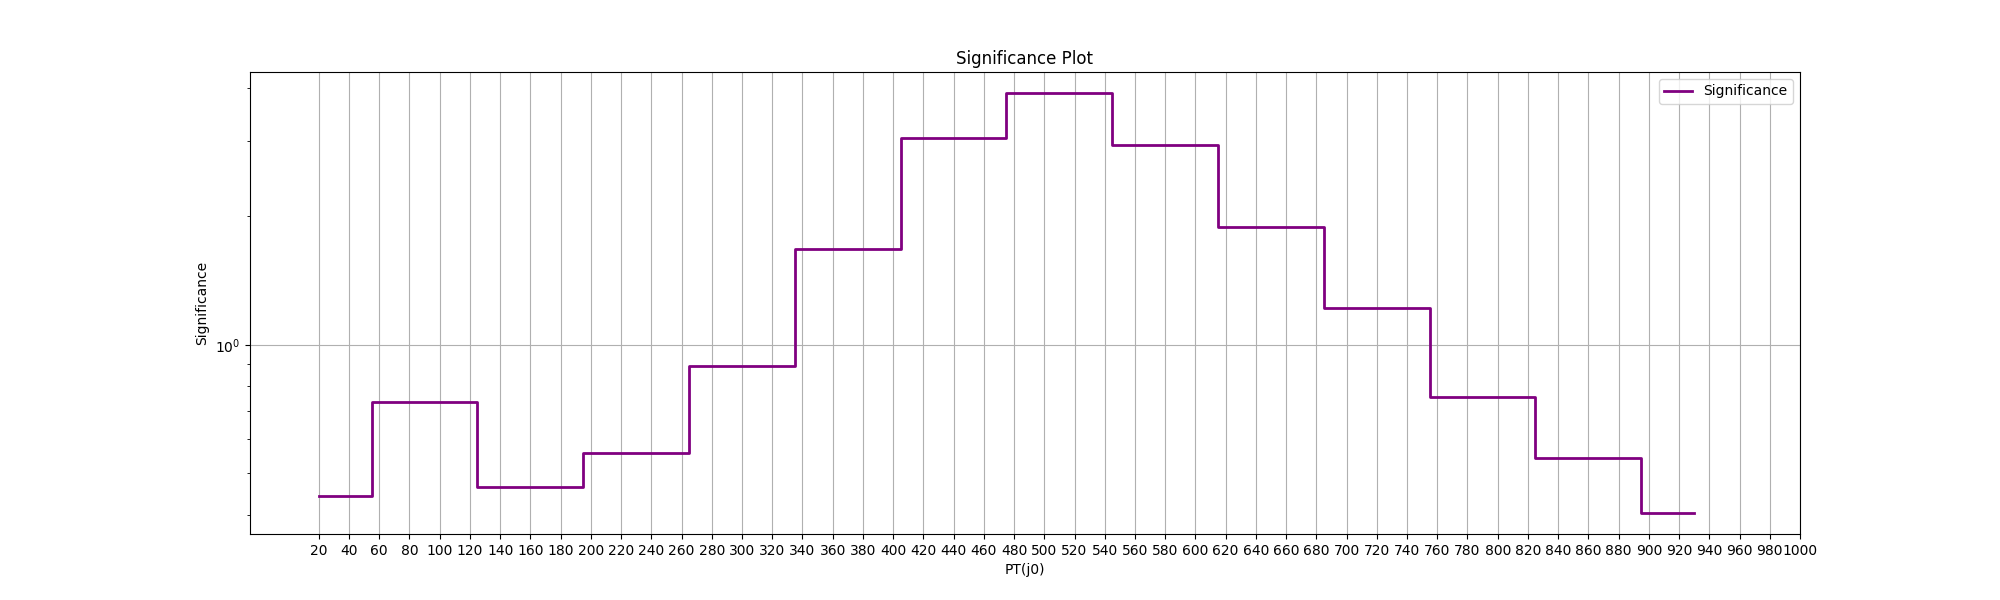
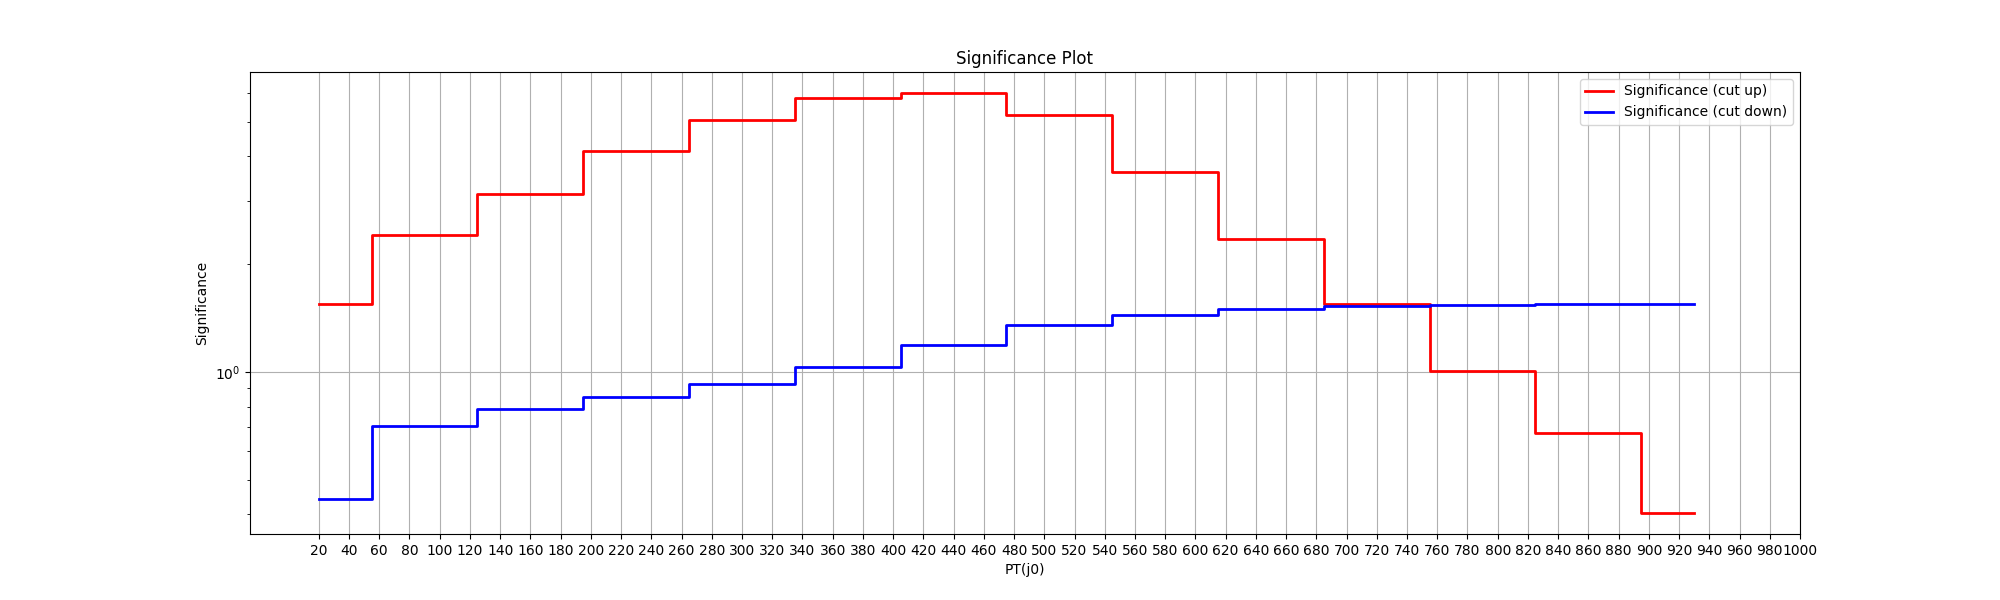
significance plotting both >= and <= at cut point

diff --git a/Analysis/plot_functions.py b/Analysis/plot_functions.py
@@ -753,43 +753,39 @@ def PlotInvariantMass(masklist,signal_weight_list,background_weight_list,savefil
 def significance_plot(lims,signal_hist,background_hist,kind):
 
     if kind=="eta*eta":
-        significance = GetSignificances(signal_hist,background_hist)
+        significance_up, significance_down = GetCulmulativeSignificances(signal_hist, background_hist)
 
         # Get bin edges from the histogram
         bin_edges = signal_hist.axes[0].edges
 
         # Plot significance
         plt.figure(figsize=(10, 6))
-        plt.step(bin_edges[:-1], significance, where='mid', label='Significance', color='purple', linewidth=2)
+        plt.step(bin_edges[:-1], significance_up, where='mid', label='Significance (cut up)', color='red', linewidth=2)
+        plt.step(bin_edges[:-1], significance_down, where='mid', label='Significance (cut down)', color='blue', linewidth=2)
 
         # Add labels and title
         plt.xlabel('Eta(j0) * Eta(j1)')
-        plt.xlim(lims[0], lims[1])  #from visual inspection
+        plt.xlim(lims[0], lims[1])  # from visual inspection
         plt.ylabel('Significance')
         plt.yscale('log')
         plt.title('Significance Plot')
         plt.grid(True)
         plt.legend()
 
-        # Show the plot
         plt.savefig("Significance_plot_eta*eta.png")
-    
+
     elif kind=="Delta(eta)":
+        significance_up, significance_down = GetCulmulativeSignificances(signal_hist, background_hist)
 
-        significance = files_functions.GetSignificances(signal_hist,background_hist)
-
-        # Get bin edges from the histogram
         bin_edges = signal_hist.axes[0].edges
 
-        # Plot significance
         plt.figure(figsize=(30, 6))
-        plt.step(bin_edges[:-1], significance, where='mid', label='Significance', color='purple', linewidth=2)
+        plt.step(bin_edges[:-1], significance_up, where='mid', label='Significance (cut up)', color='red', linewidth=2)
+        plt.step(bin_edges[:-1], significance_down, where='mid', label='Significance (cut down)', color='blue', linewidth=2)
 
-        # Add labels and title
         plt.xlabel('Delta(Eta(J0,J1))')
-        # Set x-axis ticks every 0.1 units
         plt.xticks(np.arange(bin_edges[0], bin_edges[-1]+1, 0.1))
-        plt.xlim(lims[0], lims[1])  #from visual inspection
+        plt.xlim(lims[0], lims[1])
         plt.ylabel('Significance')
         plt.yscale('log')
         plt.title('Significance Plot')
@@ -799,67 +795,53 @@ def significance_plot(lims,signal_hist,background_hist,kind):
         plt.savefig("Significance_plot_Delta(eta).png")
 
     elif kind=="j0":
-        significance = files_functions.GetSignificances(signal_hist, background_hist)
+        significance_up, significance_down = GetCulmulativeSignificances(signal_hist, background_hist)
 
-        # Get bin edges from the histogram
         bin_edges = signal_hist.axes[0].edges
 
-        # Plot significance
-        plt.figure(figsize=(20, 6))  # <-- Make the figure wider by increasing the first value
-        plt.step(bin_edges[:-1], significance, where='mid', label='Significance', color='purple', linewidth=2)
+        plt.figure(figsize=(20, 6))
+        plt.step(bin_edges[:-1], significance_up, where='mid', label='Significance (cut up)', color='red', linewidth=2)
+        plt.step(bin_edges[:-1], significance_down, where='mid', label='Significance (cut down)', color='blue', linewidth=2)
 
-        # Add labels and title
         plt.xlabel('PT(j0)')
-        # Set x-axis ticks every 20 units
         plt.xticks(np.arange(bin_edges[0], bin_edges[-1]+1, 20))
-        #plt.xlim(0, 5)  #from visual inspection
         plt.ylabel('Significance')
         plt.yscale('log')
         plt.title('Significance Plot')
         plt.grid(True)
         plt.legend()
 
-        # Show the plot
         plt.savefig("Significance_Plot_PT(j0).png")
 
-        
     elif kind=="j1":
-        significance = files_functions.GetSignificances(signal_hist, background_hist)
+        significance_up, significance_down = GetCulmulativeSignificances(signal_hist, background_hist)
 
-        # Get bin edges from the histogram
         bin_edges = signal_hist.axes[0].edges
 
-        # Plot significance
         plt.figure(figsize=(20, 6))
-        plt.step(bin_edges[:-1], significance, where='mid', label='Significance', color='purple', linewidth=2)
+        plt.step(bin_edges[:-1], significance_up, where='mid', label='Significance (cut up)', color='red', linewidth=2)
+        plt.step(bin_edges[:-1], significance_down, where='mid', label='Significance (cut down)', color='blue', linewidth=2)
 
-        # Add labels and title
         plt.xlabel('PT(j1)')
-        # Set x-axis ticks every 20 units
         plt.xticks(np.arange(bin_edges[0], bin_edges[-1]+1, 20))
-        #plt.xlim(0, 5)  #from visual inspection
         plt.ylabel('Significance')
         plt.yscale('log')
         plt.title('Significance Plot')
         plt.grid(True)
         plt.legend()
 
-        # Show the plot
         plt.savefig("Significance_Plot_PT(j1).png")
 
     elif kind == "Invariant":
-        significance = files_functions.GetSignificances(signal_hist, background_hist)
+        significance_up, significance_down =GetCulmulativeSignificances(signal_hist, background_hist)
 
-        # Get bin edges from the histogram
         bin_edges = signal_hist.axes[0].edges
 
-        # Plot significance
         plt.figure(figsize=(40, 6))
-        plt.step(bin_edges[:-1], significance, where='mid', label='Significance', color='purple', linewidth=2)
+        plt.step(bin_edges[:-1], significance_up, where='mid', label='Significance (cut up)', color='red', linewidth=2)
+        plt.step(bin_edges[:-1], significance_down, where='mid', label='Significance (cut down)', color='blue', linewidth=2)
 
-        # Add labels and title
         plt.xlabel('Invariant Mass (j0, j1)')
-        #X axis ticks every 50
         plt.xticks(np.arange(bin_edges[0], bin_edges[-1]+1, 50))
         plt.ylabel('Significance')
         plt.yscale('log')
@@ -869,6 +851,7 @@ def significance_plot(lims,signal_hist,background_hist,kind):
 
         plt.savefig("Significance_Plot_Invariant_Mass.png")
 
+    '''
     #Top 5 points
     # Find the indices of the top 5 significance values
     top_indices = np.argsort(significance)[-5:]  # Get indices of the 5 largest values
@@ -884,6 +867,7 @@ def significance_plot(lims,signal_hist,background_hist,kind):
     print("Top 5 Significance Values and Their Corresponding Bins:")
     for i, idx in enumerate(top_indices):
         print(f"Rank {i + 1}: Significance = {top_significance_values[i]:.3f}, Bin = {top_bin_edges[i]:.3f}")
+    '''
 
 
     
@@ -929,27 +913,49 @@ def Get_Table(number_of_sig_events, number_of_bkg_events, numWBkgEvents, numZBkg
         
 
 
-def GetSignificances(sighist,bkghist):
-    '''Calculate and return an array of significances from a given
-        signal data histogram, and background data histogram.
-    '''
-    signal_counts = sighist.values()
-    bkg_counts = bkghist.values()
 
-    significance = []
-    for n_s, n_b in zip(signal_counts, bkg_counts):
+def GetCulmulativeSignificances(sighist, bkghist):
+    """
+    Calculate and return two arrays of significances:
+    1. Cumulative cuts "up"   (x >= bin_edge)
+    2. Cumulative cuts "down" (x <= bin_edge)
+    """
+    signal_counts = np.array(list(sighist.values()))
+    bkg_counts = np.array(list(bkghist.values()))
+
+    # "Up" cut → cumulative sums from right to left
+    sig_up = np.cumsum(signal_counts[::-1])[::-1]
+    bkg_up = np.cumsum(bkg_counts[::-1])[::-1]
+
+    # "Down" cut → cumulative sums from left to right
+    sig_down = np.cumsum(signal_counts)
+    bkg_down = np.cumsum(bkg_counts)
+
+    # Compute significance arrays
+    significance_up = []
+    significance_down = []
+
+    for n_s, n_b in zip(sig_up, bkg_up):
         if n_b + n_s > 0:
             S = calculation_functions.calculateSignificance(numSig=n_s, numBkg=n_b)
-            significance.append(S)
+            significance_up.append(S)
         else:
-            significance.append(0)  # If both are zero, significance is zero.
+            significance_up.append(0)
 
-    return np.array(significance)
+    for n_s, n_b in zip(sig_down, bkg_down):
+        if n_b + n_s > 0:
+            S = calculation_functions.calculateSignificance(numSig=n_s, numBkg=n_b)
+            significance_down.append(S)
+        else:
+            significance_down.append(0)
+
+    return np.array(significance_up), np.array(significance_down)
+
 
 
 def PlotSignificance(signal_hist, bkg_hist, title, xlabel, xlim=None):
     # Calculate significance bin by bin
-    significance = GetSignificances(signal_hist, bkg_hist)
+    significance = GetCulmulativeSignificances(signal_hist, bkg_hist)
 
     # Get bin edges
     bin_edges = signal_hist.axes[0].edges

diff --git a/Analysis/files_functions.py b/Analysis/files_functions.py
@@ -234,7 +234,7 @@ def applyMultipleCuts(df, mask_functions):
 
 
 
-def GetSignificances(sighist,bkghist):
+def GetCulmulativeSignificances(sighist,bkghist):
     '''Calculate and return an array of significances from a given
         signal data histogram, and background data histogram.
     '''
@@ -250,3 +250,5 @@ def GetSignificances(sighist,bkghist):
             significance.append(0)  # If both are zero, significance is zero.
 
     return np.array(significance)
+
+
